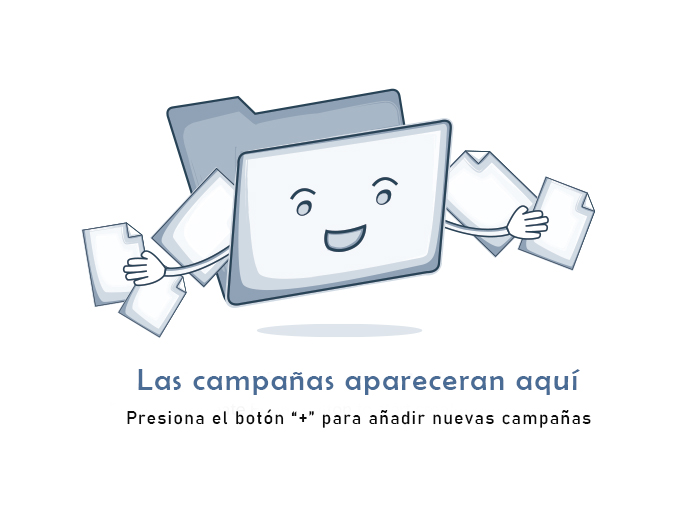
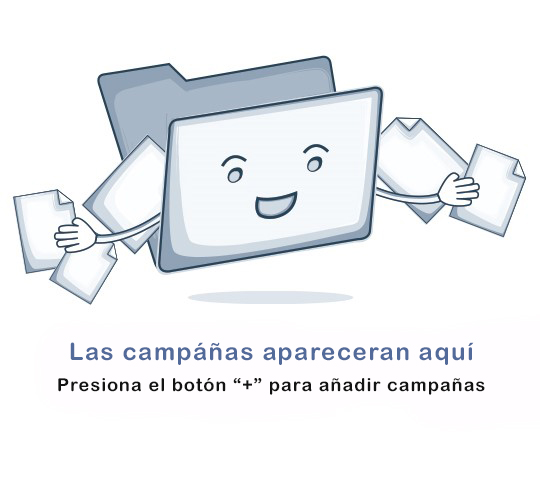
fix design add empty image campiangs

diff --git a/src/app/main/apps/e-commerce/product/campaigns/campaigns.component.scss b/src/app/main/apps/e-commerce/product/campaigns/campaigns.component.scss
@@ -47,12 +47,6 @@ products-campaigns {
                     }
                 }
 
-                @include media-breakpoint('lt-md') {
-                    padding: 8px 0;
-                    height: 192px !important;
-                    min-height: 192px !important;
-                    max-height: 192px !important;
-                }
             }
         }
     }
@@ -117,10 +111,15 @@ products-campaigns {
 
         .courses {
 
+            @include media-breakpoint('xs') {
+                margin-bottom: 70px;
+            }
+
+
             margin: 0 auto;
 
 
-
+          
 
 
             .no-courses {
@@ -225,6 +224,9 @@ products-campaigns {
 
 .content-card {
     padding: 16px;
+
+
+
 }
 
 .empty-campaign {
@@ -260,4 +262,83 @@ products-campaigns {
 
 .img-campaign {
     height: 356px;
+}
+
+@import "src/@fuse/scss/fuse";
+
+.fab-container {
+
+    z-index: 100;
+    display: flex;
+    flex-direction: column-reverse;
+    align-items: center;
+    position: fixed;
+   
+
+   
+
+    @include media-breakpoint('sm') {
+
+
+      bottom: 150px;
+    
+     
+    
+    }
+
+    @include media-breakpoint('m') {
+
+
+      bottom: 160px;
+    
+     
+    
+    }
+
+    
+  @include media-breakpoint('xs') {
+
+
+    bottom: 50px;
+    left: 90%;
+   
+
+}
+
+@include media-breakpoint('xl') {
+
+
+  bottom: 400;
+
+ 
+
+}
+    
+  
+    > div {
+      display: flex;
+      flex-direction: column-reverse;
+      align-items: center;
+      margin-bottom: 5px;
+  
+      button {
+        margin-bottom: 17px;
+      }
+    }
+  }
+
+  
+  .fab-toggler {
+    float: right;
+    z-index: 100;
+  }
+
+  .icon-second {
+
+    color:#878787
+  }
+
+  
+.spinner-fab-btn {
+  margin-top: -15%;
 }

diff --git a/src/app/main/apps/e-commerce/product/form-custom/form-custom.component.scss b/src/app/main/apps/e-commerce/product/form-custom/form-custom.component.scss
@@ -1,6 +1,29 @@
 @import "src/@fuse/scss/fuse";
 
+form-custom {
 
+    #formcustom {
+
+
+
+        > .center {
+
+        
+            > .header {
+
+                padding: 2%;
+
+                
+    height: 100% !important;
+    min-height: 100px !important;
+    max-height: 100px !important;
+
+
+            }
+        }
+    }
+
+}
 
 .content-card-custom {
 
@@ -28,7 +51,7 @@
 }
 
 .header-custom {
-    height: 100px;
+    height: 64px;
 
 
     
@@ -88,7 +111,7 @@
         margin-bottom: 40px;
     
         @include media-breakpoint('xs') {
-            margin-bottom: 236px;
+            margin-bottom: 20%;
     
         }
        
@@ -164,7 +187,7 @@
     @include media-breakpoint('xs') {
         width: 85% !important;
 
-        height: 800px;
+     
     }
 
   
@@ -183,12 +206,22 @@
 
 } 
 
+.carded {
 
-.page-layout{
+    @include media-breakpoint('xs') {
+        height: 700px;
+    }
+
+
+ 
+}
+
+
+.page-height{
 
     @include media-breakpoint('xs') {
      
-        height: 1050px;
+        height: 500px;
     }
 
 }
@@ -221,7 +254,7 @@
     display: block;
 
     @include media-breakpoint('xs') {
-        padding: 0% 10% 0% 0%;
+        padding: 0% 10% 10% 0%;
       }
   
     

diff --git a/src/app/main/apps/e-commerce/product/campaigns/campaigns.component.html b/src/app/main/apps/e-commerce/product/campaigns/campaigns.component.html
@@ -28,11 +28,7 @@
             </div>
             <!-- / SEARCH -->
 
-            <!-- ADD BUTTON -->
-            <button mat-raised-button (click)="addCampaignDialog()" class="add-btn fuse-white mt-24 mt-md-0">
-                <span>CREAR NUEVA</span>
-            </button>
-            <!-- / ADD BUTTON -->
+ 
 
         </div>
         <!-- / HEADER -->
@@ -126,7 +122,7 @@
 
             </div>
 
-            <mat-spinner class="spinner-fab" *ngIf="_campaignService.loadingCampaigns" diameter="50"></mat-spinner>
+         <!--    <mat-spinner class="spinner-fab" *ngIf="_campaignService.loadingCampaigns" diameter="50"></mat-spinner> -->
 
 
 
@@ -149,6 +145,20 @@
     <!-- / CENTER -->
 
 
-</div>
+
 
 </div>
+
+
+
+</div>
+
+<div class="fab-container">
+    <button mat-fab class="fab-toggler"
+            [disabled]="_campaignService.loadingCampaigns"
+            (click)="addCampaignDialog()">
+            <mat-icon *ngIf="!_campaignService.loadingCampaigns">add</mat-icon>
+            <mat-spinner class="spinner-fab-btn" *ngIf="_campaignService.loadingCampaigns" diameter="35"></mat-spinner>
+    </button>
+
+  </div>

diff --git a/src/app/main/apps/e-commerce/product/product.component.html b/src/app/main/apps/e-commerce/product/product.component.html
@@ -182,17 +182,6 @@
 
                     </mat-tab>
 
-                    <mat-tab label="Formulario" [disabled]='!isCreated'>
-
-
-                        <div fxLayout="column" fxLayoutAlign="start" fxFlex="1 0 auto">
-
-                            <form-custom></form-custom>
-
-
-                        </div>
-                    </mat-tab>
-
                     <mat-tab label="Campañas" [disabled]='!isCreated'>
 
 
@@ -205,6 +194,19 @@
 
 
                     </mat-tab>
+
+                    <mat-tab label="Invitación" [disabled]='!isCreated'>
+
+
+                        <div fxLayout="column" fxLayoutAlign="start" fxFlex="1 0 auto">
+
+                            <form-custom></form-custom>
+
+
+                        </div>
+                    </mat-tab>
+
+
 
                     <mat-tab label="Usuarios" [disabled]='!isCreated'>
 

diff --git a/src/app/main/apps/e-commerce/product/product.component.scss b/src/app/main/apps/e-commerce/product/product.component.scss
@@ -213,18 +213,16 @@
     display: block !important;
 
 
-    @include media-breakpoint('lt') {
-         height: 950px;
-    }
 
-    @include media-breakpoint('sx') {
-        height: 1500px;
-   }
+   
+    height: 100%;
+    
+  
+
 
 
   
-
-    
+ 
 
     
 }

diff --git a/src/app/main/apps/contacts/contact-list/contact-list.component.scss b/src/app/main/apps/contacts/contact-list/contact-list.component.scss
@@ -398,9 +398,9 @@ contacts-contact-list {
 
 .no-invited {
     font-size: 24px;
-    margin: 24px 0;
+  //  margin: 24px 0;
     text-align: center;
-    min-height: 695px;
+   // min-height: 695px;
 
 
     @include media-breakpoint('xl') {

diff --git a/src/app/main/apps/e-commerce/product/campaigns/campaigns.component.ts b/src/app/main/apps/e-commerce/product/campaigns/campaigns.component.ts
@@ -84,6 +84,8 @@ export class CampaignsComponent implements OnInit, OnDestroy {
             });
     }
 
+    
+
 
     //this.allLoading = false;
     //this.selectLoading = false;
